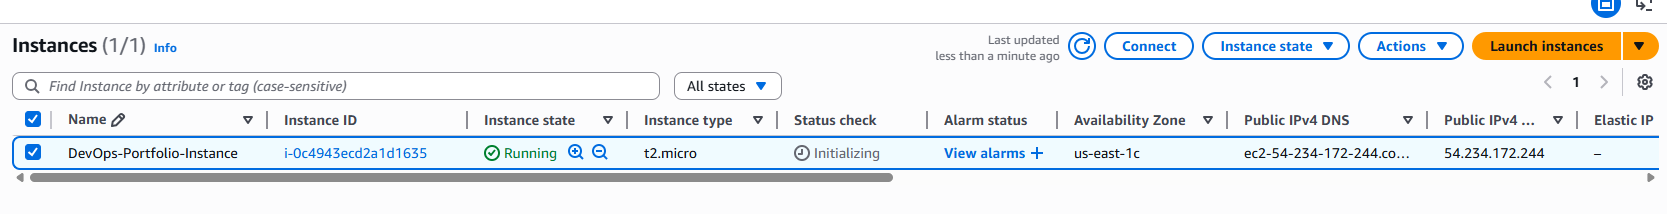
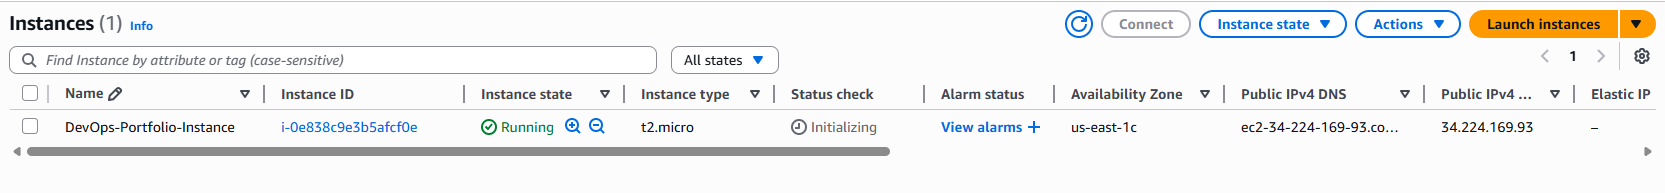
ss updated

Changed region(s): [[0.0, 0.2798, 0.9994, 0.8705], [0.0, 0.0, 1.0, 0.4352]]

diff --git a/README.md b/README.md
@@ -137,23 +137,13 @@ Terraform Validate
 
 1⃣ terraform plan output
 
-![terraform plan1](<./ss/terraform-plan1.png>)
-
-![terraform plan2](<./ss/terraform-plan2.png>)
-
 ![terraform plan3](<./ss/terraform-plan3.png>)
 
 2⃣ Terraform Apply Success
 
 ![Terraform Apply](<./ss/terraform-apply.png>)
 
-
-
 3⃣ EC2 instance running
-
-Resources Dashboard
-
-![Resources Dashboard](<./ss/resources-dashboard.png>)
 
 EC2 Instances
 
@@ -162,18 +152,10 @@ EC2 Instances
 EC2 Instance Security Groups
 
 ![EC2 Instance Security Groups](<./ss/ec2-instance-sg.png>)
-
+ 
 EC2 Instance Volumes
 
 ![EC2 Instance Volumes](<./ss/ec2-instance-volume.png>)
-
-EC2 Instances After Terraform Initialized 
-
-![EC2 Instances After Terraform Initialized ](<./ss/ec2-instances-after-terraform.png>)
-
-EC2 Instance IP on Browser 
-
-![EC2 Instance IP on Browser ](<./ss/ec2-instance-ip-on-browser.png>)
 
 Node App Running on Browser via Instance IP 
 
@@ -182,5 +164,3 @@ Node App Running on Browser via Instance IP
 4⃣ Terraform Destroy Completion
 
 ![Terraform Destroy Completion](<./ss/terraform-destroy.png>)
-
-
